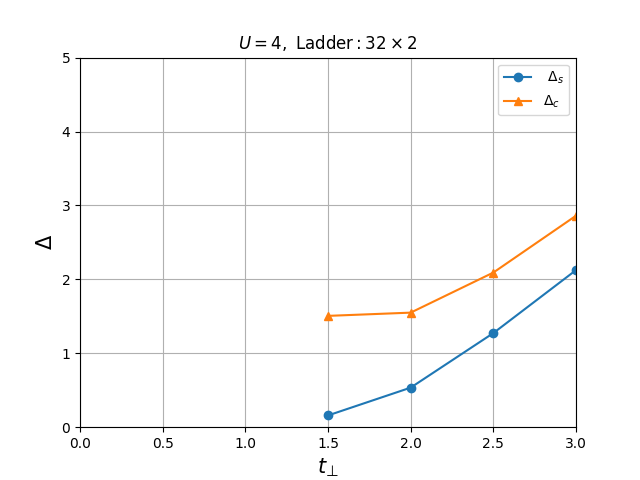
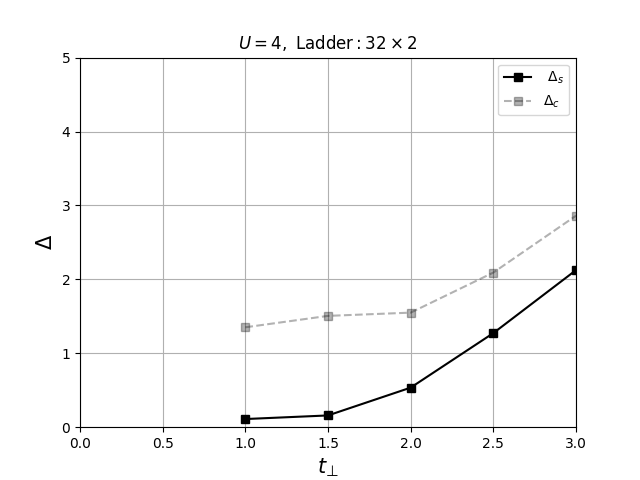
prueba

diff --git a/Daniel_Lozano/source/gaps_c_s.py b/Daniel_Lozano/source/gaps_c_s.py
@@ -1,12 +1,12 @@
 import numpy as np
 import matplotlib.pyplot as plt
 
-a=[1.5,2.0,2.5,3.]
-Ds=[0.1591,0.5353,1.273,2.125]
-Dc=[1.5061,1.5498,2.0919,2.861]
+a=[1.0,1.5,2.0,2.5,3.]
+Ds=[0.11039,0.1591,0.5353,1.273,2.125]
+Dc=[1.3515,1.5061,1.5498,2.0919,2.861]
 
-plt.plot(a,Ds,"o-",label=" $ \Delta_s  $")
-plt.plot(a,Dc,"^-",label="$ \Delta_c  $")
+plt.plot(a,Ds,"ks-",label=" $ \Delta_s  $")
+plt.plot(a,Dc,"ks--",alpha=0.3,label="$ \Delta_c  $")
 plt.legend()
 plt.grid()
 plt.xlim(0,3)
